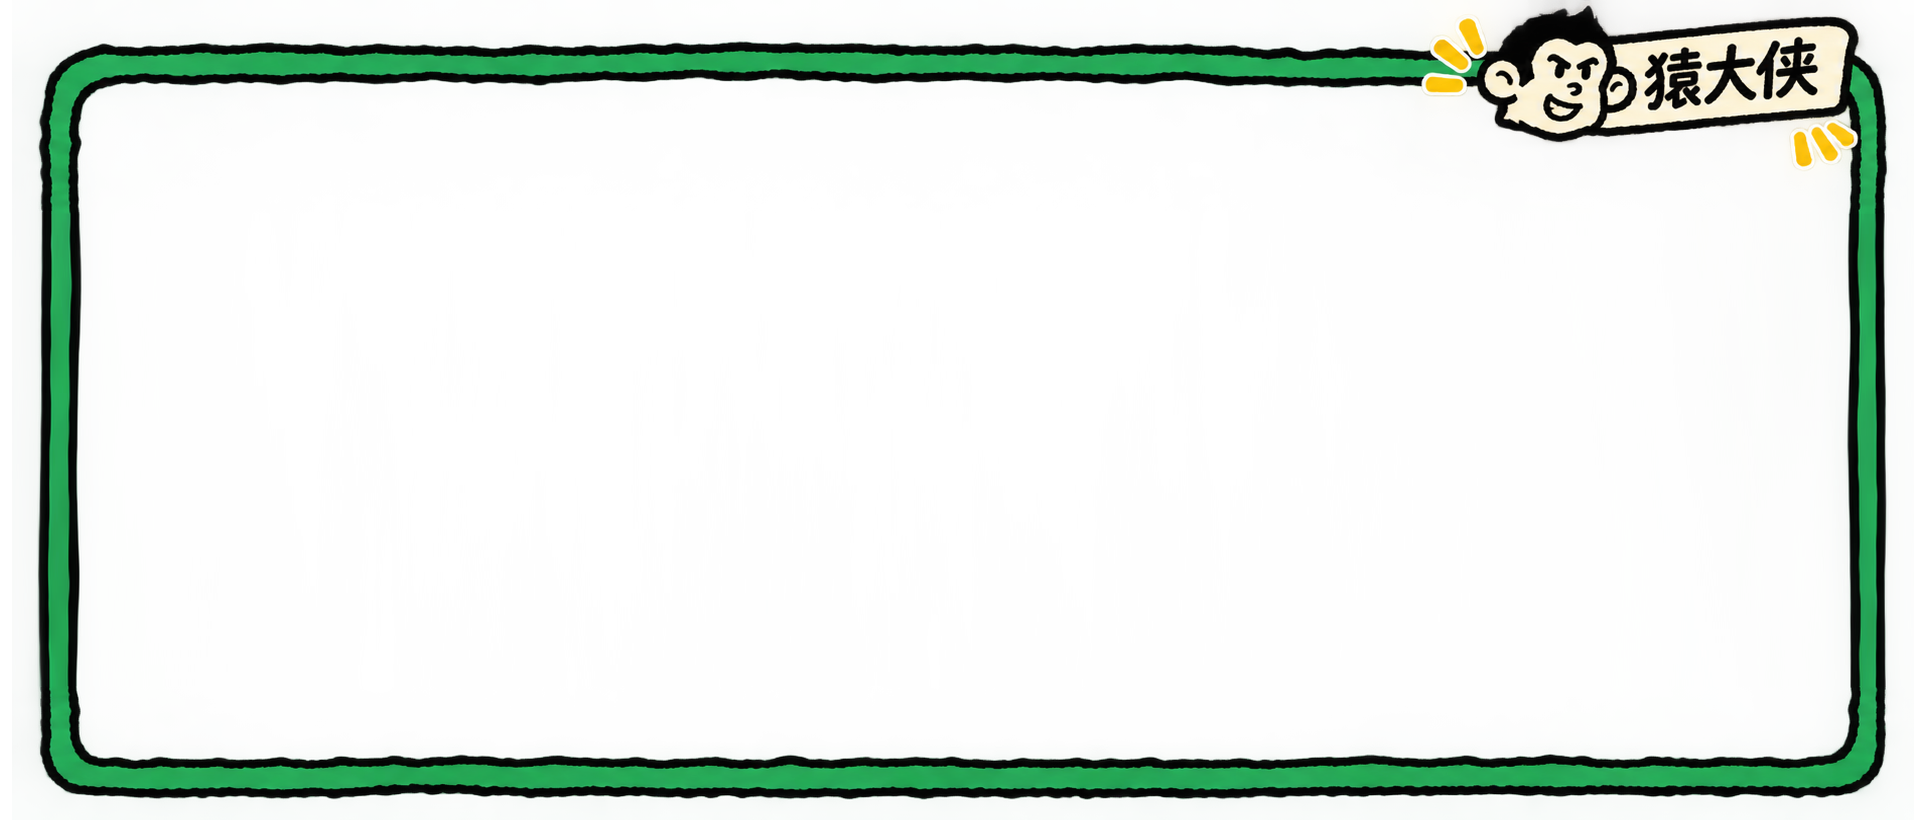
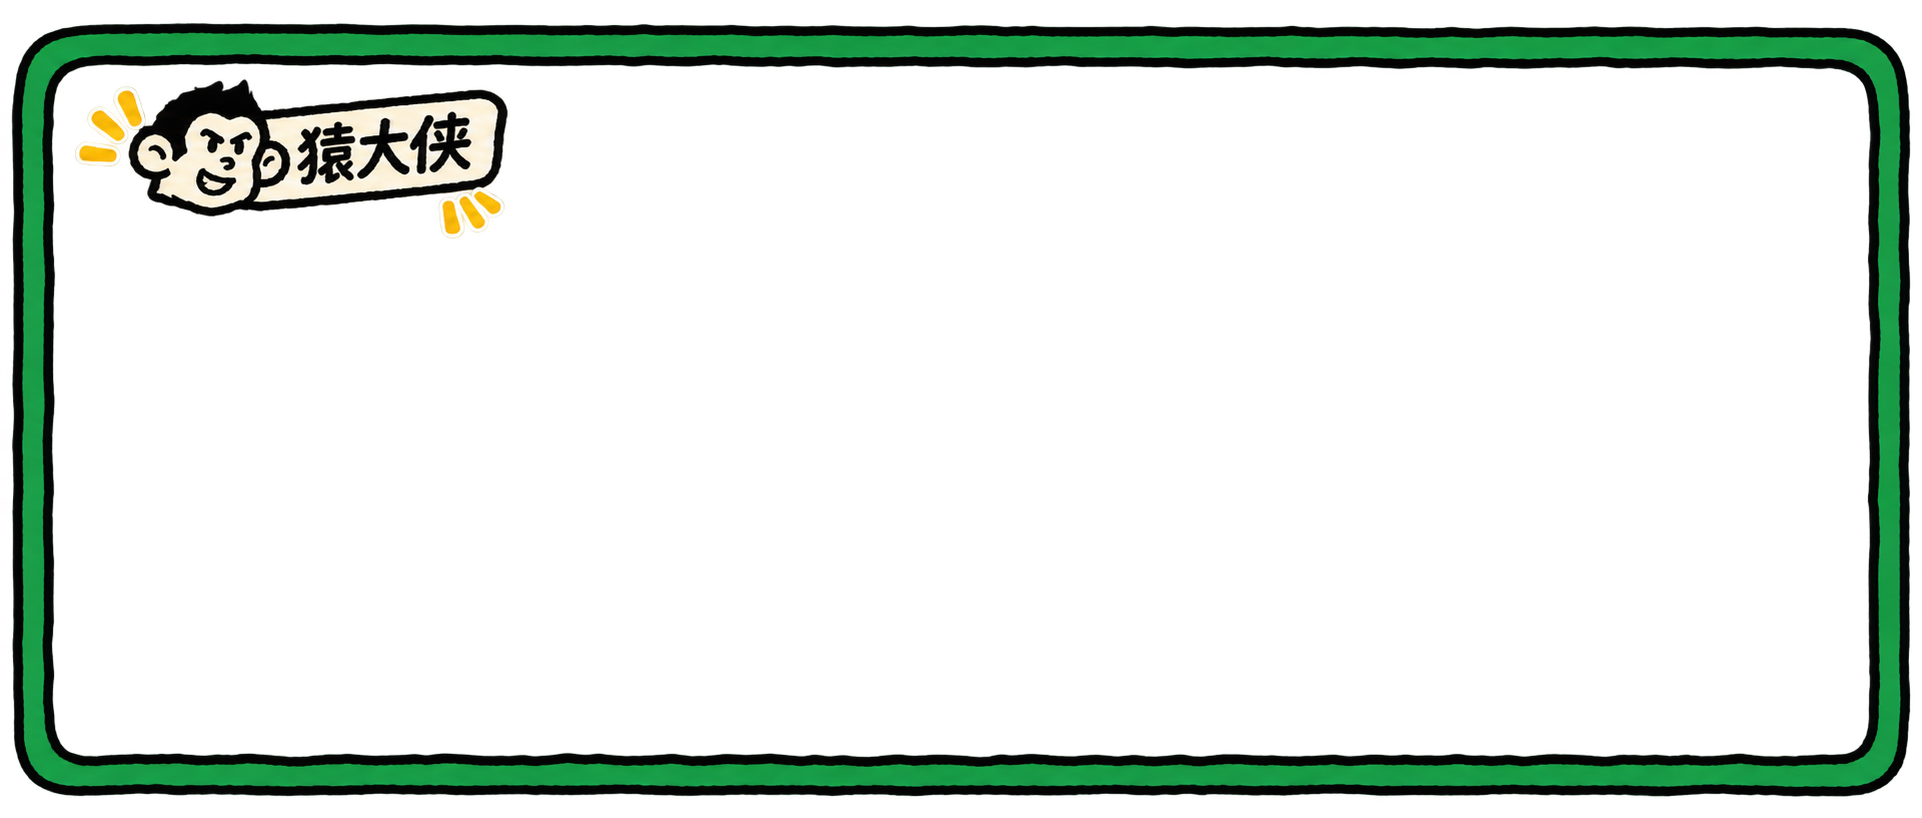
Adopt selected B border with badge inside upper left

Changed region(s): [[0.0, 0.0, 0.999, 0.978]]

diff --git a/README.md b/README.md
@@ -36,7 +36,7 @@ python3 scripts/compose_cover.py --input generated.png --border news-handdrawn -
 
 一次调用 Skill 即自动连续完成生图、框内适配与加框，无需再次发出加框指令。脚本也只需运行一次，同时保存无边框与加框版。
 
-加框时自动识别各款边框内部开口，默认等比铺满整个框内开口，裁切超出部分，不额外添加内边距；框外使用协调底色，避免主体越过边框。边框外侧自动收紧至约 3 像素保护边，保留标识轮廓和原始素材。生图时在标识位置预留背景，主体保持在安全区域。只有明确接受留白并希望保留整张原图时使用 `--fit contain`。
+加框时自动识别各款边框内部开口，默认等比铺满整个框内开口，裁切超出部分，不额外添加内边距；框外使用协调底色，避免主体越过边框。边框外侧自动收紧至约 3 像素保护边，保留标识轮廓和原始素材。资讯手绘边框采用已选定的 B 版，标识位于左上角框内。生图时在对应标识位置预留背景，主体保持在安全区域。只有明确接受留白并希望保留整张原图时使用 `--fit contain`。
 
 可用边框参数为 `news-handdrawn`、`news-minimal`、`review`。默认输出 1880×800 PNG，保留原图，已有输出文件不会被覆盖。
 
